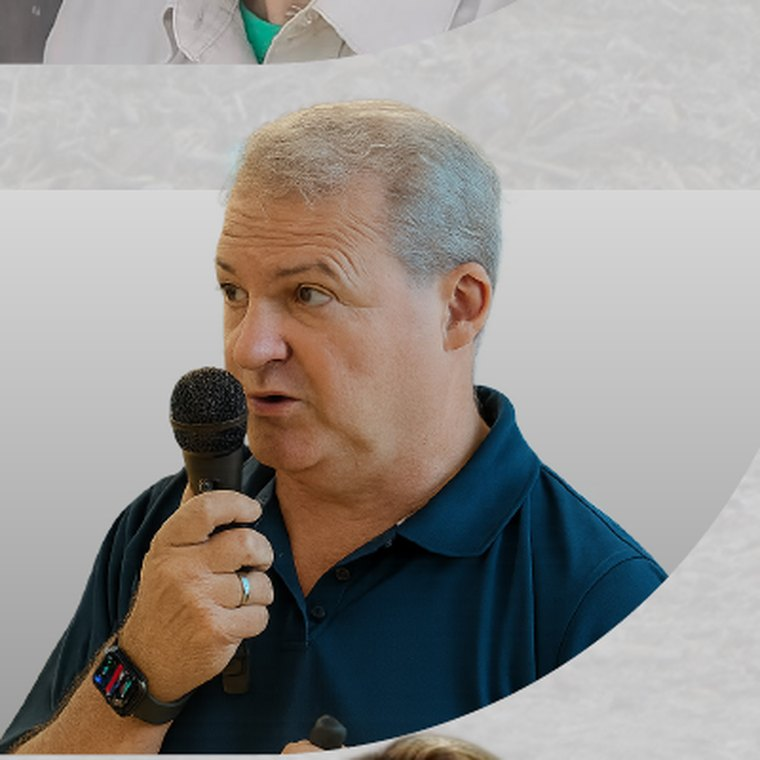
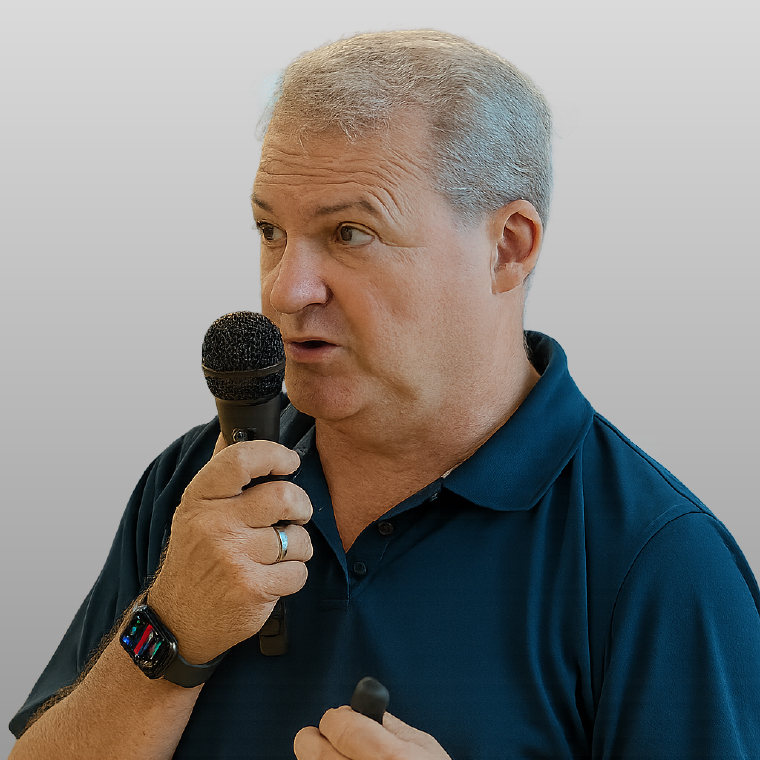
Optimizacion y nuevo expositor Aguas y Procesos

diff --git a/index.html b/index.html
@@ -1667,6 +1667,7 @@ const MARCAS=[
  ['HEIT','heit','w'],
  ['BioGrow','biogrow','w'],
  ['Suplefeed','suplefeed','w'],
+ ['Aguas & Procesos','aguas-procesos','w'],
  ['FutureCow','futurecow','w'],
  ['BioSolares','biosolares','w'],
  ['Lácteos Tonutti','tonutti','w'],
@@ -1729,7 +1730,7 @@ const LOTES=[
  [6,15,26,3,4,'i34i','Folmer'],
  /* islas centrales */
  [16,6,7,3,4,'i34i','Cremigal'],[7,9,7,3,4,'i34i','Fliegl'],
- [15,6,11,3,4,'i34i',''],[8,9,11,3,4,'i34i','Nutrifar'],
+ [15,6,11,3,4,'i34i','Aguas & Procesos'],[8,9,11,3,4,'i34i','Nutrifar'],
  [14,6,18,3,4,'i34i','Agrotambo · DeLaval'],[9,9,18,3,4,'i34i','HEIT · BioGrow'],
  ['13·10',6,22,6,4,'i34i','Suplefeed · FutureCow'],
  [12,6,28,3,4,'i34i','BioSolares'],[11,9,28,3,4,'i34i','Tonutti'],
@@ -1754,7 +1755,7 @@ const LOTES=[
    [ruta, fondoOscuro] — fondoOscuro=1 cuando el logo es claro y necesita azul detrás. */
 /* segundo logo cuando el stand comparte dos marcas */
 const LOGOS2={"21": "boumatic", "3": "massey", "43": "massey", "14": "delaval", "9": "biogrow", "13": "futurecow", "10": "futurecow", "52": "traxor", "53": "traxor"};
-const LOGOS={"20": ["assets/marcas/m-peon.png", 0], "19": ["assets/marcas/m-lar.png", 0], "18": ["assets/marcas/m-bemix.png", 0], "17": ["assets/marcas/m-la-ganadera.png", 0], "21": ["assets/marcas/m-trossero.png", 0], "22": ["assets/marcas/m-bess.png", 0], "23": ["assets/marcas/m-santa-sylvina.png", 0], "24": ["assets/marcas/m-tsc.png", 0], "25": ["assets/marcas/m-tsc.png", 0], "26": ["assets/marcas/m-magno.png", 0], "27": ["assets/marcas/m-vet-hernandez.png", 0], "28": ["assets/marcas/w-indalac.png", 1], "1": ["assets/marcas/m-stel.png", 0], "2": ["assets/marcas/m-guemes.png", 0], "3": ["assets/marcas/m-weinbaur.png", 0], "4": ["assets/marcas/m-pauer.png", 0], "5": ["assets/marcas/m-pauer.png", 0], "6": ["assets/marcas/m-folmer.png", 0], "16": ["assets/marcas/m-cremigal.png", 1], "7": ["assets/marcas/m-fliegl.png", 0], "8": ["assets/marcas/m-nutriar.png", 0], "14": ["assets/marcas/m-agrotambo.png", 0], "9": ["assets/marcas/m-heit.png", 0], "13": ["assets/marcas/m-suplefeed.png", 0], "10": ["assets/marcas/m-suplefeed.png", 0], "12": ["assets/marcas/m-biosolares.png", 0], "11": ["assets/marcas/m-tonutti.png", 1], "29": ["assets/marcas/m-cotapa.png", 0], "30": ["assets/marcas/m-lely.png", 0], "31": ["assets/marcas/m-cau-siglo21.png", 0], "32": ["assets/marcas/m-lec-fri.png", 0], "33": ["assets/marcas/m-lec-fri.png", 0], "34": ["assets/marcas/m-la-sibila.png", 0], "47": ["assets/marcas/m-porta.png", 0], "38": ["assets/marcas/m-fliegl.png", 0], "39": ["assets/marcas/m-agronorte.png", 0], "40": ["assets/marcas/m-agronorte.png", 0], "41": ["assets/marcas/m-folmer.png", 0], "42": ["assets/marcas/m-jacob.png", 0], "43": ["assets/marcas/m-weinbaur.png", 0], "45": ["assets/marcas/m-gauss.png", 0], "46": ["assets/marcas/m-gauss.png", 0], "52": ["assets/marcas/m-mb-maquinarias.png", 0], "53": ["assets/marcas/m-mb-maquinarias.png", 0]};
+const LOGOS={"20": ["assets/marcas/m-peon.png", 0], "19": ["assets/marcas/m-lar.png", 0], "18": ["assets/marcas/m-bemix.png", 0], "17": ["assets/marcas/m-la-ganadera.png", 0], "21": ["assets/marcas/m-trossero.png", 0], "22": ["assets/marcas/m-bess.png", 0], "23": ["assets/marcas/m-santa-sylvina.png", 0], "24": ["assets/marcas/m-tsc.png", 0], "25": ["assets/marcas/m-tsc.png", 0], "26": ["assets/marcas/m-magno.png", 0], "27": ["assets/marcas/m-vet-hernandez.png", 0], "28": ["assets/marcas/w-indalac.png", 1], "1": ["assets/marcas/m-stel.png", 0], "2": ["assets/marcas/m-guemes.png", 0], "3": ["assets/marcas/m-weinbaur.png", 0], "4": ["assets/marcas/m-pauer.png", 0], "5": ["assets/marcas/m-pauer.png", 0], "6": ["assets/marcas/m-folmer.png", 0], "16": ["assets/marcas/m-cremigal.png", 1], "7": ["assets/marcas/m-fliegl.png", 0], "8": ["assets/marcas/m-nutriar.png", 0], "14": ["assets/marcas/m-agrotambo.png", 0], "9": ["assets/marcas/m-heit.png", 0], "13": ["assets/marcas/m-suplefeed.png", 0], "10": ["assets/marcas/m-suplefeed.png", 0], "12": ["assets/marcas/m-biosolares.png", 0], "11": ["assets/marcas/m-tonutti.png", 1], "29": ["assets/marcas/m-cotapa.png", 0], "30": ["assets/marcas/m-lely.png", 0], "31": ["assets/marcas/m-cau-siglo21.png", 0], "32": ["assets/marcas/m-lec-fri.png", 0], "33": ["assets/marcas/m-lec-fri.png", 0], "34": ["assets/marcas/m-la-sibila.png", 0], "47": ["assets/marcas/m-porta.png", 0], "38": ["assets/marcas/m-fliegl.png", 0], "39": ["assets/marcas/m-agronorte.png", 0], "40": ["assets/marcas/m-agronorte.png", 0], "41": ["assets/marcas/m-folmer.png", 0], "42": ["assets/marcas/m-jacob.png", 0], "43": ["assets/marcas/m-weinbaur.png", 0], "45": ["assets/marcas/m-gauss.png", 0], "46": ["assets/marcas/m-gauss.png", 0], "52": ["assets/marcas/m-mb-maquinarias.png", 0], "53": ["assets/marcas/m-mb-maquinarias.png", 0], "15": ["assets/marcas/m-aguas-procesos.png", 0]};
 /* Descripción breve de cada expositor. Revisala y completá la que falte. */
 const INFO={
  'Agronorte · John Deere':'Concesionario oficial John Deere con una red de 16 sucursales, brindando soluciones a través de equipos y posventa en las provincias de Santa Fe, Córdoba, Entre Ríos, Corrientes y Misiones.',
@@ -1770,10 +1771,13 @@ const INFO={
  'Weinbaur · Massey Ferguson':'Concesionario oficial Massey Ferguson en Crespo, Entre Ríos: maquinaria, repuestos y posventa.',
  'Pauer':'Biotecnología y agroindustria aplicadas a la producción de forrajes y cultivos.',
  'HEIT · BioGrow':'Nutrición y servicios para el tambo, junto a la línea BioGrow.',
- 'Suplefeed':'Suplementación y nutrición animal para mejorar la conversión del rodeo lechero.',
+ 'Suplefeed · FutureCow':'Suplefeed es una empresa de Esperanza, Santa Fe, especializada en bionutrición animal: desarrolla premezclas con enzimas, probióticos y aditivos funcionales que actúan sobre el rumen para aprovechar mejor fibras, proteínas y energía, con líneas para tambo, cría, recría y feedlot. FutureCow es un sistema automatizado de preparación de ubres que en una sola pasada lava, desinfecta, estimula y seca los pezones.',
+ 'Suplefeed':'Empresa de Esperanza, Santa Fe, especializada en bionutrición animal. Desarrolla premezclas con enzimas, probióticos y aditivos funcionales que actúan sobre el rumen para aprovechar mejor fibras, proteínas y energía, con líneas específicas para tambo, cría, recría y feedlot.',
+ 'Aguas & Procesos':'Empresa argentina de Sunchales, Santa Fe, dedicada desde 1980 a la ingeniería en tratamiento de aguas y procesos industriales. Diseña, fabrica y pone en marcha sistemas de ósmosis inversa, ultrafiltración, ablandamiento, desinfección y reutilización de agua.',
  'CAU Crespo · Siglo 21':'Cooperativa Agrícola Unión de Crespo: servicios e insumos para el productor.',
  'Jacob Maquinarias':'Maquinaria agrícola: venta, repuestos y servicio.',
- 'Fliegl Argentina':'Maquinaria agrícola de origen alemán para transporte, mixers y equipos de forraje.',
+ 'Fliegl':'Empresa con base en Crespo, Entre Ríos, que fabrica y vende acoplados multicarga, carros compactadores y equipos estercoleros bajo licencia de la marca alemana Fliegl. Soluciones para el manejo de efluentes, purines y compost.',
+ 'Fliegl Argentina':'Empresa con base en Crespo, Entre Ríos, que fabrica y vende acoplados multicarga, carros compactadores y equipos estercoleros bajo licencia de la marca alemana Fliegl. Soluciones para el manejo de efluentes, purines y compost.',
  'Indalac':'Industria láctea. Auspiciante de la jornada.',
  'MB Maquinarias · Traxor':'Empresa entrerriana con sede en General Ramírez. Junto a Ombú creó en 2025 la marca de tractores Traxor, con una línea de 30 a 260 HP fabricada por Dafeng y una red de unos 50 puntos de venta en todo el país.',
  'Gauss':'Equipos para la confección y el manejo de forrajes.',
@@ -1786,7 +1790,7 @@ const INFO={
  'Nutrifar':'Nutrición animal y aditivos para alimentación.',
  'BioSolares':'Energía solar aplicada a establecimientos rurales.',
  'Tonutti':'Lácteos Tonutti, industria láctea de Entre Ríos.',
- 'FutureCow':'Tecnología para la rutina de ordeñe.',
+ 'FutureCow':'Sistema automatizado de preparación de ubres antes del ordeñe: en una sola pasada lava, desinfecta, estimula y seca los pezones. Reduce el gasto de papel, previene la mastitis y empareja la rutina sin depender del operario. Más de 100.000 vacas lo usan a diario en el país.',
  'Cotapa':'Cooperativa de Trabajo Cotagro, industria láctea entrerriana.',
  'Lely':'Automatización del tambo: robots de ordeñe y manejo del rodeo.',
  'LEC-FRI':'Equipamiento de frío para leche y agroindustria.',
